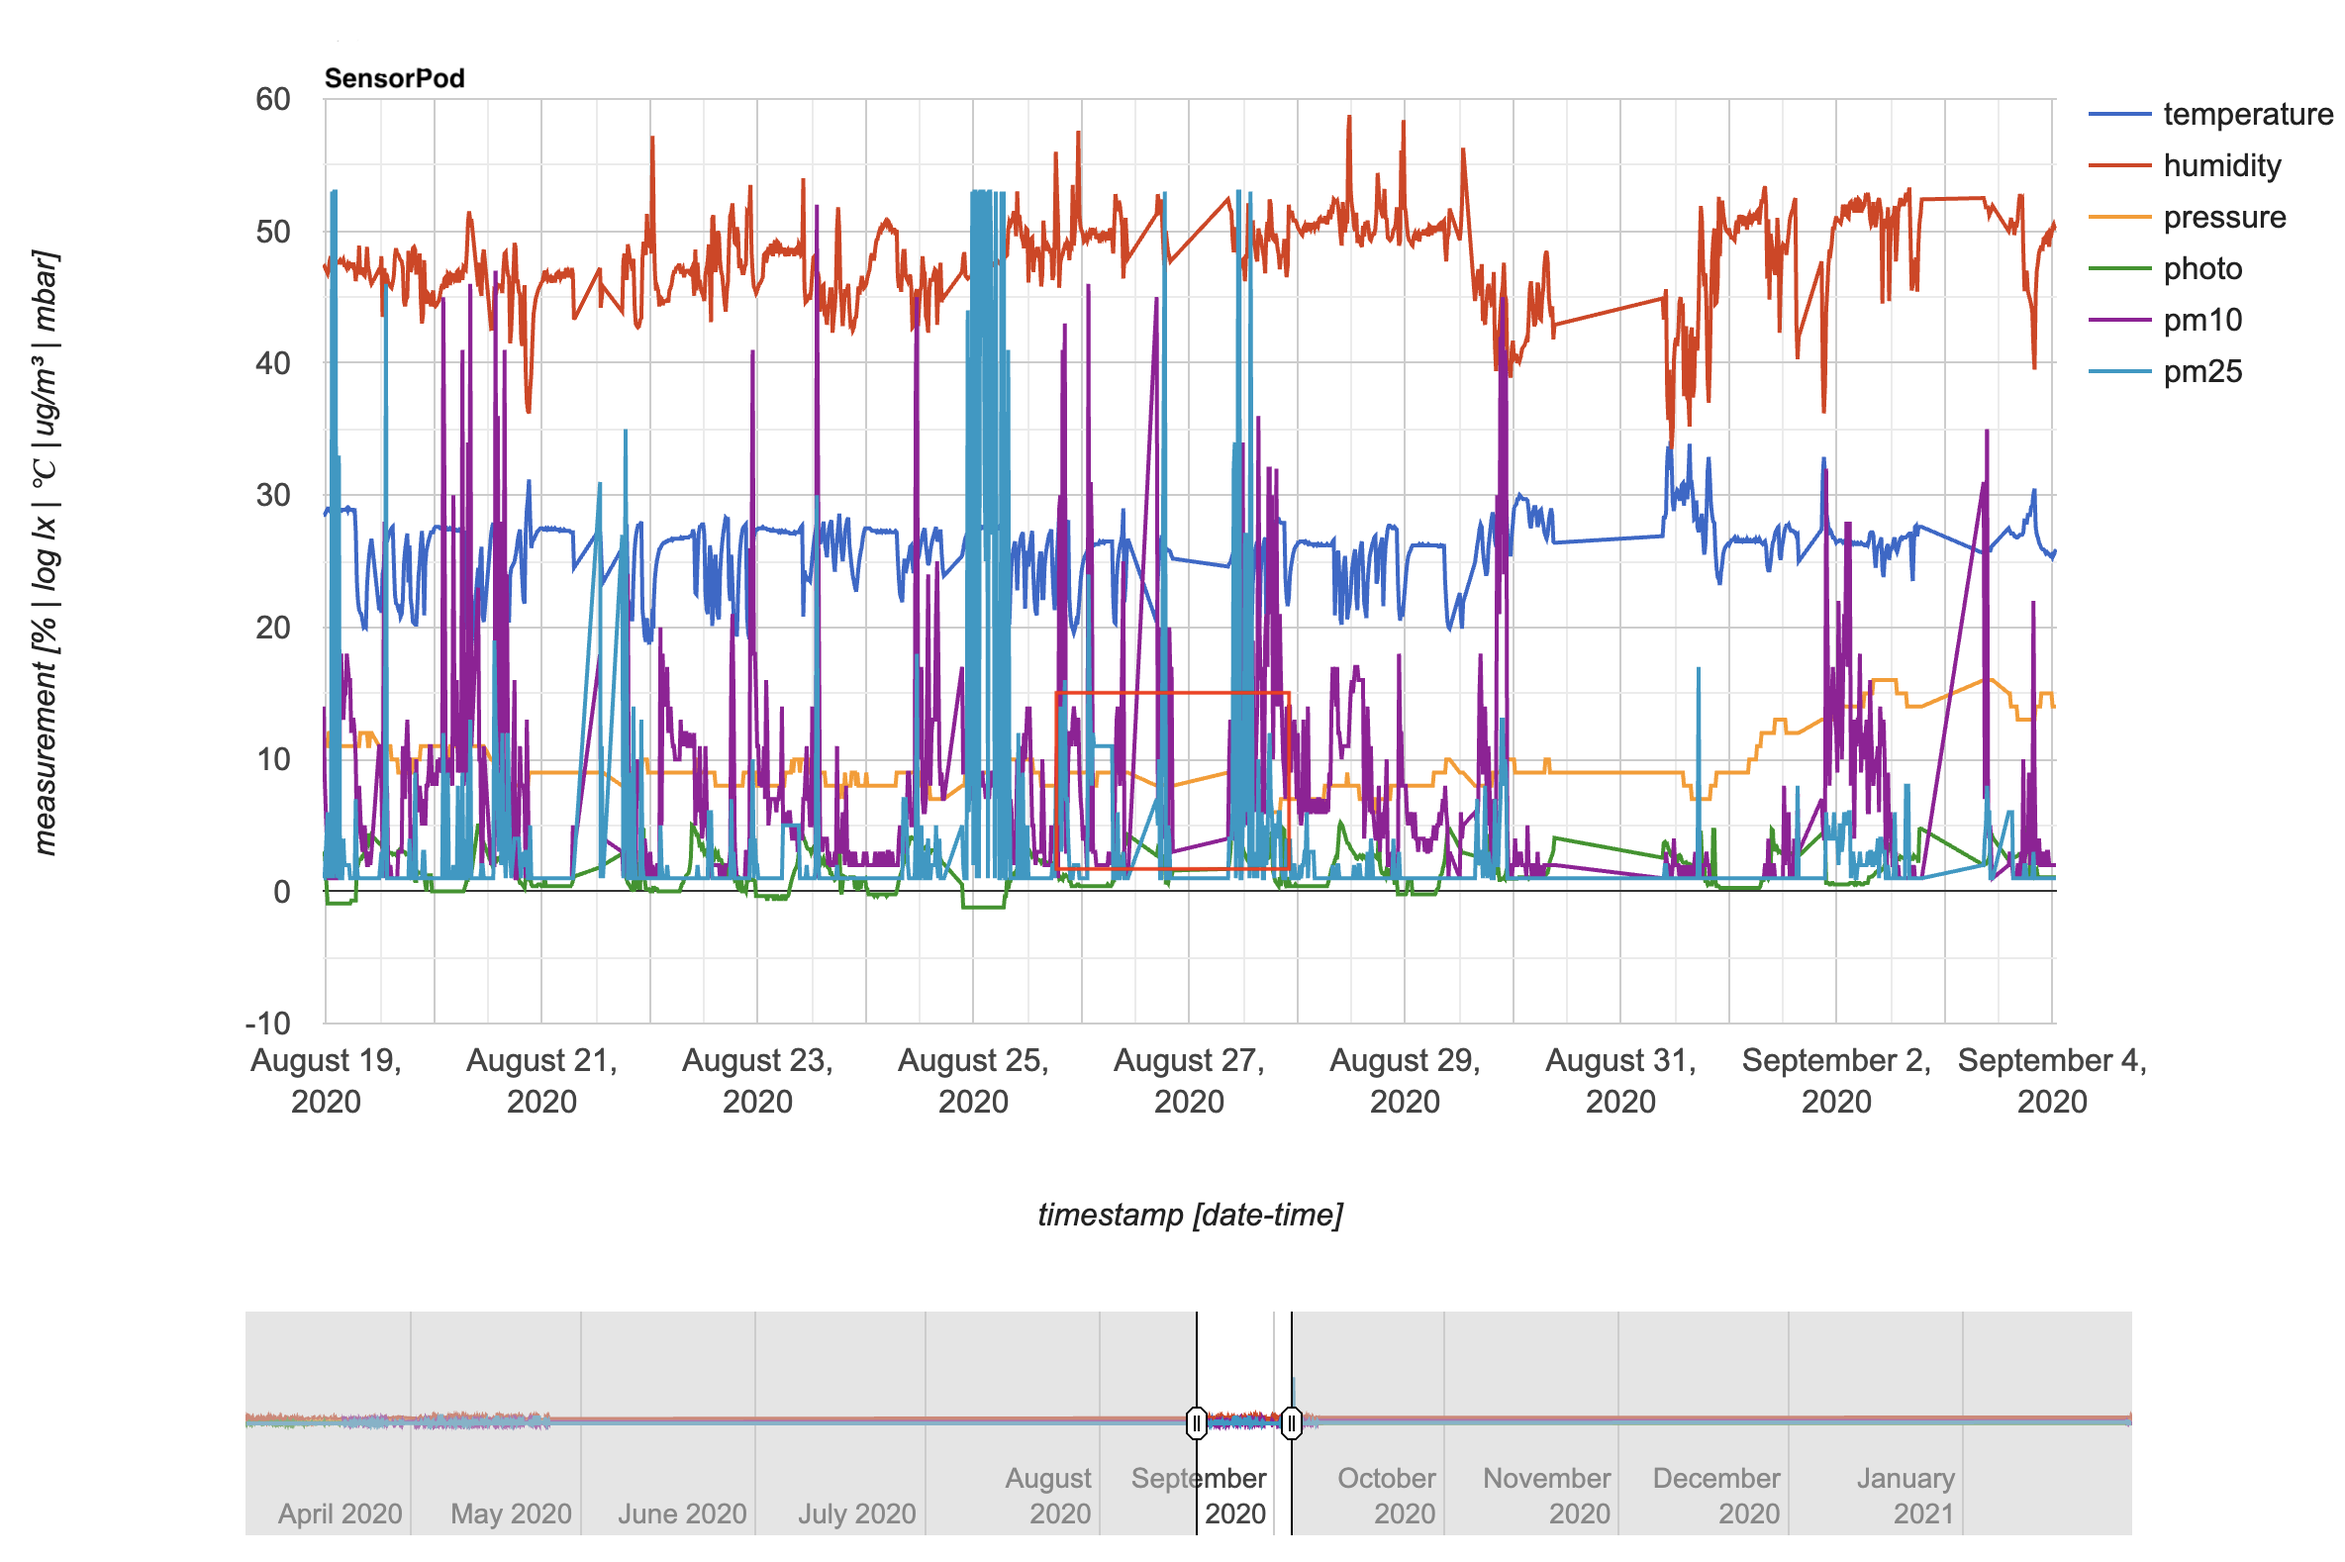
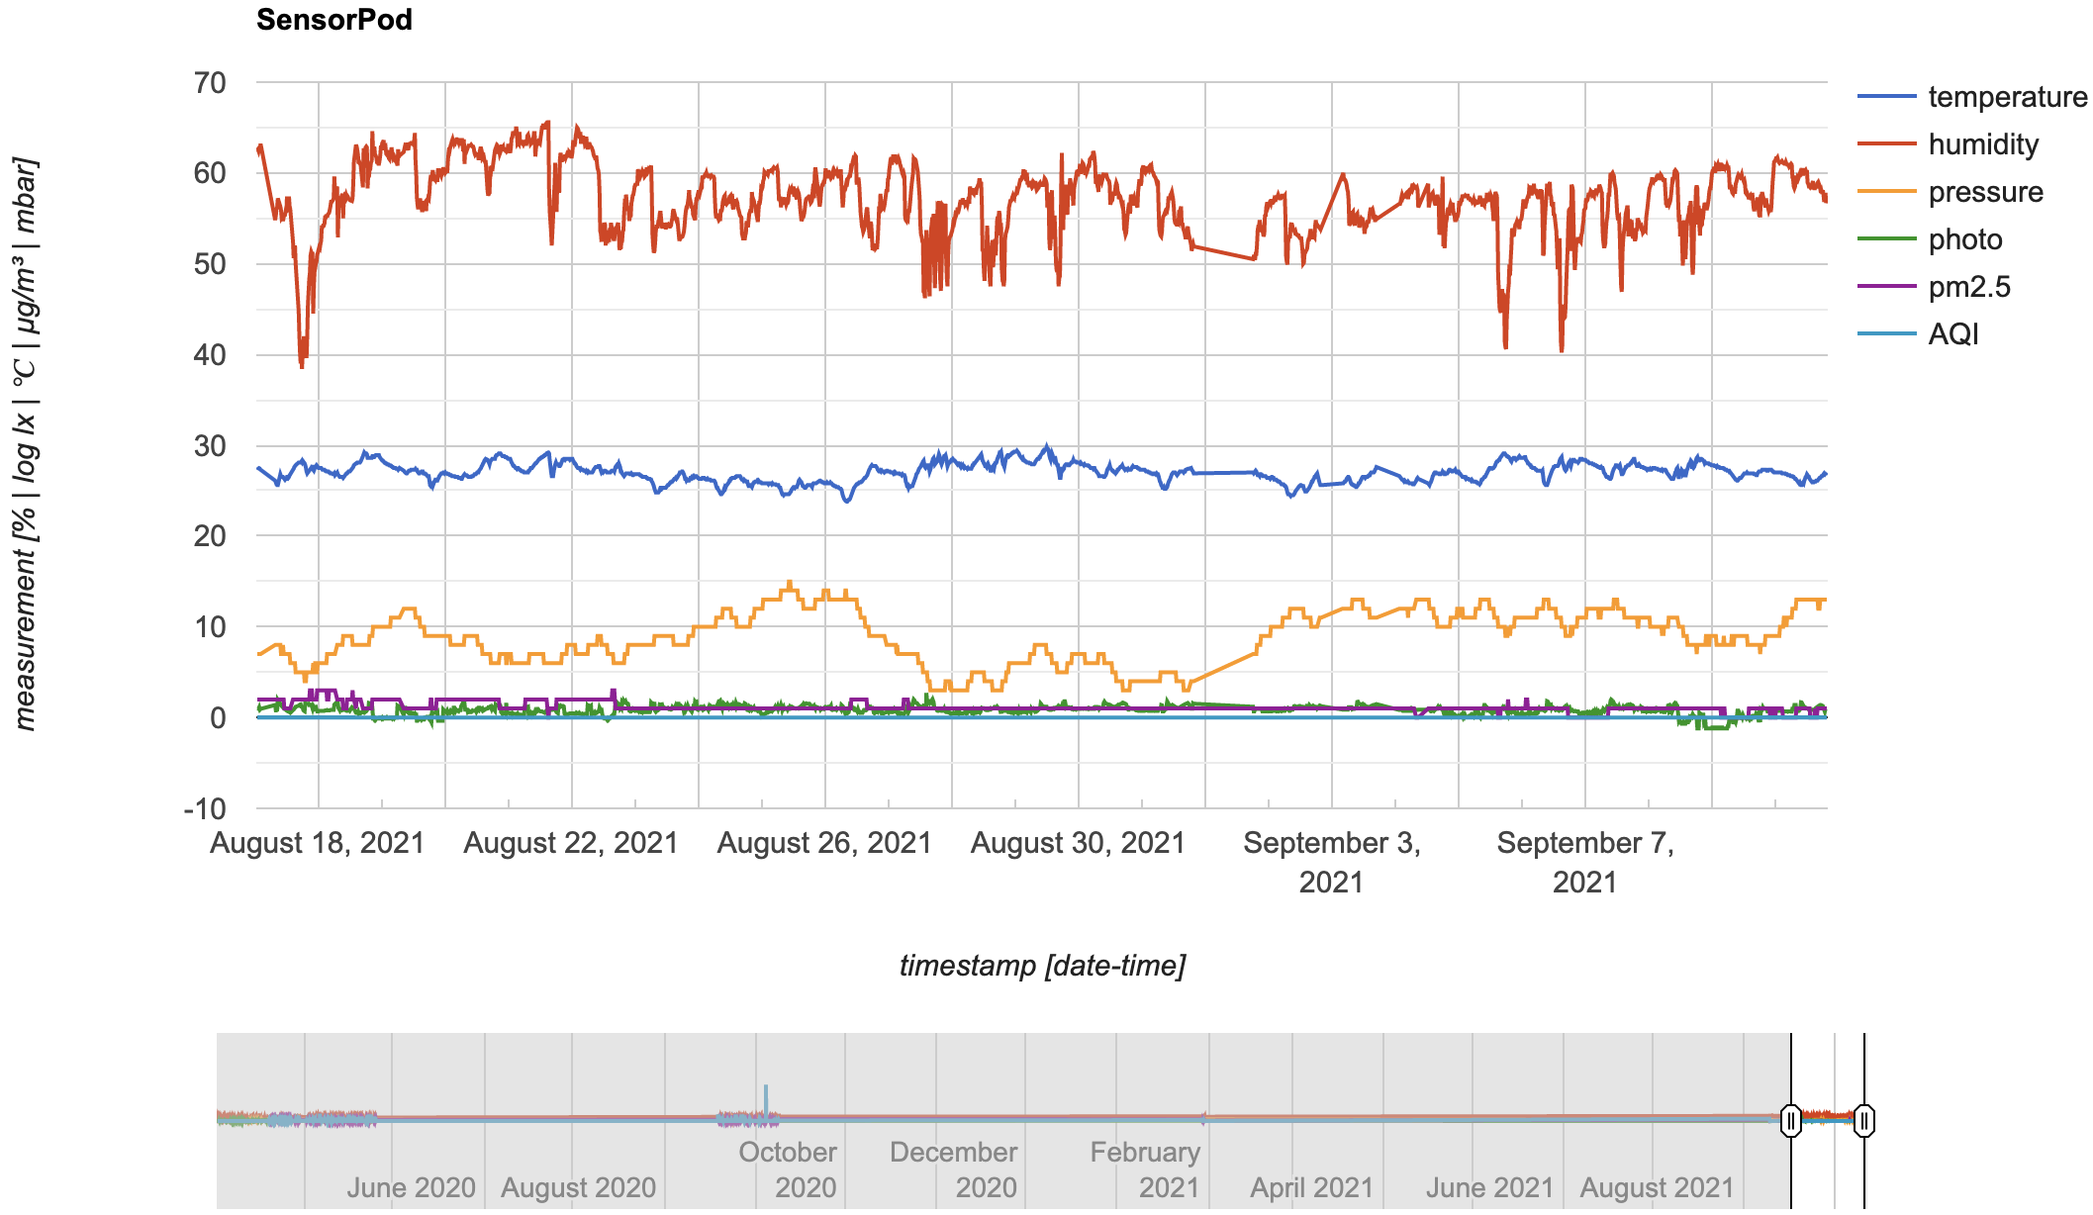
Reworked air quality determination

diff --git a/SensorPod/Uno/src/main.cpp b/SensorPod/Uno/src/main.cpp
@@ -11,14 +11,14 @@
 #include <U8x8lib.h>
 #include <Wire.h>
 
-#define DSM501PM10_PIN 2
-#define DSM501PM25_PIN 3
+#define DSM501PM1_0_PIN 2
+#define DSM501PM2_5_PIN 3
 
-#define DSM501PM10 0
-#define DSM501PM25 1
+#define DSM501PM1_0 0
+#define DSM501PM2_5 1
 #define DSM501NPMS 2
 
-#define DSM501WINDOW 3600000ul
+#define DSM501WINDOW 3600000ul // 1 hour in ms
 
 void post_handler();
 void updateUVI_handler();
@@ -29,22 +29,23 @@ struct DSM501 {
     unsigned long t0; // in ms
     unsigned long dt; // in ms
     float r;          // in %
-    char pm_str[4];
     uint8_t pin;
   } pm[DSM501NPMS];
+  char pm2_5_str[4];
+  char aqi2_5_str[4];
   uint8_t state;
-} dsm501;
+} dsm501 = {0};
 
 #define DSM501_WARMUP 0
 #define DSM501_MEASURE 1
 
 void dsm_start() {
 
-  pinMode(DSM501PM10_PIN, INPUT);
-  pinMode(DSM501PM25_PIN, INPUT);
+  pinMode(DSM501PM1_0_PIN, INPUT);
+  dsm501.pm[DSM501PM1_0].pin = DSM501PM1_0_PIN;
 
-  dsm501.pm[DSM501PM10].pin = DSM501PM10_PIN;
-  dsm501.pm[DSM501PM25].pin = DSM501PM25_PIN;
+  pinMode(DSM501PM2_5_PIN, INPUT);
+  dsm501.pm[DSM501PM2_5].pin = DSM501PM2_5_PIN;
 
   dsm501.state = DSM501_MEASURE;
 
@@ -55,8 +56,9 @@ void dsm_start() {
 void dsm_loop() {
   switch (dsm501.state) {
   case DSM501_MEASURE: {
+    float pm[DSM501NPMS];
     for (uint8_t i = 0; i < DSM501NPMS; i++) {
-      unsigned long pulse = pulseIn(dsm501.pm[i].pin, LOW, 240000ul),
+      unsigned long pulse = pulseInLong(dsm501.pm[i].pin, LOW, 240000ul),
                     ms = millis(),
                     dt = ms - dsm501.pm[i].t0; // in ms
 
@@ -70,16 +72,37 @@ void dsm_loop() {
       if (dsm501.pm[i].dt > DSM501WINDOW)
         dsm501.pm[i].dt = DSM501WINDOW;
 
-      /*float pm = 00.31778908f * pow(dsm501.pm[i].r, 3) -
-                 3.5669456f * pow(dsm501.pm[i].r, 2) +
-                 118.05720f * dsm501.pm[i].r - 50.607655f; // in ug/m3*/
+      // from datasheet, highest trace
+      pm[i] = -75.3446f + 80.3664f * dsm501.pm[i].r -
+              0.380702f * pow(dsm501.pm[i].r, 2) +
+              0.116638f * pow(dsm501.pm[i].r, 3); // in ug/m3
+    }
 
-      float pm = 0.083701976 * pow(dsm501.pm[i].r, 3) +
-                 0.31207281f * pow(dsm501.pm[i].r, 2) +
-                 75.929237f * dsm501.pm[i].r - 68.798744f; // in ug/m3
+    if (pm[DSM501PM2_5] > 0.0f)
+      pm[DSM501PM1_0] -= pm[DSM501PM2_5];
 
-      if (pm > 0.0f)
-        dtostrf(pm, 3, 0, (char *)dsm501.pm[i].pm_str);
+    if (pm[DSM501PM1_0] >= 0.0f) {
+
+      dtostrf(pm[DSM501PM1_0], 3, 0, (char *)dsm501.pm2_5_str);
+
+      float aqi;
+      if (pm[DSM501PM1_0] >= 0.0f && pm[DSM501PM1_0] <= 35.0f) {
+        aqi = 50.0f / 35.0f * pm[DSM501PM1_0];
+      } else if (pm[DSM501PM1_0] > 35.0f && pm[DSM501PM1_0] <= 75.0f) {
+        aqi = 50.0f + (50.0 / 40 * (pm[DSM501PM1_0] - 35));
+      } else if (pm[DSM501PM1_0] > 75.0f && pm[DSM501PM1_0] <= 115.0f) {
+        aqi = 100.0f + (50.0 / 40.0f * (pm[DSM501PM1_0] - 75.0f));
+      } else if (pm[DSM501PM1_0] > 115.0f && pm[DSM501PM1_0] <= 150.0f) {
+        aqi = 150.0f + (50.0 / 35.0f * (pm[DSM501PM1_0] - 115.0f));
+      } else if (pm[DSM501PM1_0] > 150.0f && pm[DSM501PM1_0] <= 250.0f) {
+        aqi = 200.0f + (100.0f / 100.0f * (pm[DSM501PM1_0] - 150.0f));
+      } else if (pm[DSM501PM1_0] > 250.0f && pm[DSM501PM1_0] <= 500.0f) {
+        aqi = 300.0f + (200.0f / 250.0f * (pm[DSM501PM1_0] - 250.0f));
+      } else if (pm[DSM501PM1_0] > 500.0f) {
+        aqi = 500.0f + (500.0f / 500.0f * (pm[DSM501PM1_0] - 500.0));
+      }
+
+      dtostrf(aqi, 3, 0, (char *)dsm501.aqi2_5_str);
     }
   } break;
   case DSM501_WARMUP:
@@ -417,12 +440,10 @@ void screen_draw_sensors() {
   snprintf_P(buf, sizeof(buf), PSTR("pres:  %s bar"), sv.pressure_str);
   u8x8.drawString(0, 5, buf);
 
-  snprintf_P(buf, sizeof(buf), PSTR("pm10: %4s ug/m3"),
-             dsm501.pm[DSM501PM10].pm_str);
+  snprintf_P(buf, sizeof(buf), PSTR("pm25:%3s ug/m3"), dsm501.pm2_5_str);
   u8x8.drawString(0, 6, buf);
 
-  snprintf_P(buf, sizeof(buf), PSTR("pm25: %4s ug/m3"),
-             dsm501.pm[DSM501PM25].pm_str);
+  snprintf_P(buf, sizeof(buf), PSTR("aqi :%3s"), dsm501.aqi2_5_str);
   u8x8.drawString(0, 7, buf);
 }
 
@@ -708,6 +729,8 @@ void updateUVI_handler() {
 
 void post_handler() {
 
+  static const char *null_str = "null";
+
   switch (queue.stage) {
   case QUEUE_EXEC:
     char cmd[192], photo_str[6];
@@ -716,11 +739,15 @@ void post_handler() {
                PSTR("PST\ntwonky.centralpark.lan\n/"
                     "sensors.php\n{\"timestamp\":\"20%02d-%02d-%02dT%02d:%02d:%"
                     "02d\",\"temperature\":%s,\"humidity\":%s,\"pressure\":%s,"
-                    "\"photo\":%s,\"pm10\":%s,\"pm25\":%s}\n"),
+                    "\"photo\":%s,\"pm2_5\":%s, \"aqi2_5\":%s}\n"),
                DateTime.year, DateTime.month, DateTime.day, DateTime.hour,
-               DateTime.minute, DateTime.second, sv.temperature_str,
-               sv.humidity_str, sv.pressure_str, photo_str,
-               dsm501.pm[DSM501PM10].pm_str, dsm501.pm[DSM501PM25].pm_str);
+               DateTime.minute, DateTime.second,
+               sv.temperature_str[0] ? sv.temperature_str : null_str,
+               sv.humidity_str[0] ? sv.humidity_str : null_str,
+               sv.pressure_str[0] ? sv.pressure_str : null_str,
+               photo_str[0] ? photo_str : null_str,
+               dsm501.pm2_5_str[0] ? dsm501.pm2_5_str : null_str,
+               dsm501.aqi2_5_str[0] ? dsm501.aqi2_5_str : null_str);
 
     queue_execute(cmd);
     break;
@@ -732,7 +759,7 @@ void post_handler() {
       code[3] = '\0';
       post_error = atoi(code);
       if (post_error != 200)
-        log(Serial, F("Post error %d"), code);
+        log(Serial, F("Post error %d"), post_error);
       else
         log(Serial, F("Sensors posted"));
       queue_reset();

diff --git a/SensorPod/php/SensorPod.php b/SensorPod/php/SensorPod.php
@@ -26,9 +26,14 @@ if (
   if ($_SERVER['REQUEST_METHOD'] == 'POST') {
     $json = file_get_contents('php://input');
     $d = json_decode($json);
-    $query = "INSERT INTO readings(timestamp, temperature, humidity, pressure, photo, pm10, pm25) VALUES (?, ?, ?, ?, ?, ?, ?)";
+    if (is_null($d)) {
+      echo "Failed to parse JSON";
+      http_response_code(500);
+      exit();
+    }
+    $query = "INSERT INTO readings(timestamp, temperature, humidity, pressure, photo, pm2_5, aqi2_5) VALUES (?, ?, ?, ?, ?, ?, ?)";
     $st = mysqli_prepare($link, $query);
-    mysqli_stmt_bind_param($st, 'sdddddd', $d->timestamp, $d->temperature, $d->humidity, $d->pressure, $d->photo, $d->pm10, $d->pm25);
+    mysqli_stmt_bind_param($st, 'sdddddd', $d->timestamp, $d->temperature, $d->humidity, $d->pressure, $d->photo, $d->pm2_5, $d->aqi2_5);
     if (!mysqli_stmt_execute($st)) http_response_code(400);
     else http_response_code(200);
     mysqli_close($link);
@@ -42,15 +47,15 @@ if (
       (object) array('label' => 'humidity', 'type' => 'number'),
       (object) array('label' => 'pressure', 'type' => 'number'),
       (object) array('label' => 'photo', 'type' => 'number'),
-      (object) array('label' => 'pm10', 'type' => 'number'),
-      (object) array('label' => 'pm25', 'type' => 'number')
+      (object) array('label' => 'pm2.5', 'type' => 'number'),
+      (object) array('label' => 'AQI', 'type' => 'number')
     ),
     'rows' => array()
   );
 
   $where = '';
   if (!empty($_GET['dt'])) $where = " WHERE timestamp > '" . $_GET['dt'] . "'";
-  $query = "SELECT DATE_FORMAT(timestamp, '%Y-%m-%dT%H:%i:%s') AS timestamp, temperature, humidity, pressure, LOG(photo) as photo, pm10, pm25 FROM readings" . $where;
+  $query = "SELECT DATE_FORMAT(timestamp, '%Y-%m-%dT%H:%i:%s') AS timestamp, temperature, humidity, pressure, LOG(photo) as photo, pm2_5, aqi2_5 FROM readings" . $where;
 
   $result = mysqli_query($link, $query);
   while ($row = mysqli_fetch_assoc($result)) {
@@ -62,8 +67,8 @@ if (
       (object) array('v' => floatval($row['humidity'])),
       (object) array('v' => (floatval($row['pressure']) - 1.0) * 1000),
       (object) array('v' => floatval($row['photo'])),
-      (object) array('v' => floatval($row['pm10'])),
-      (object) array('v' => floatval($row['pm25']))
+      (object) array('v' => floatval($row['pm2_5'])),
+      (object) array('v' => floatval($row['aqi2_5']))
     ));
   }
 
@@ -78,7 +83,7 @@ if (
 <html>
 
 <head>
-  <title>Sensors</title>
+  <title>SensorPod</title>
   <script type="text/javascript" src="https://www.gstatic.com/charts/loader.js"></script>
   <script type="text/javascript" src="https://ajax.googleapis.com/ajax/libs/jquery/1.10.2/jquery.min.js"></script>
   <script type="text/javascript">
@@ -92,7 +97,7 @@ if (
     var board = null;
 
     var opt = {
-      title: 'Sensors',
+      title: 'SensorPod',
       curveType: 'none',
       legend: {
         position: 'right'
@@ -101,7 +106,7 @@ if (
         title: 'timestamp [date-time]',
       },
       vAxis: {
-        title: 'measurement [% | log lx | \u2103 | ug/m\u00B3 | mbar]',
+        title: 'measurement [% | log lx | \u2103 | \u03BCg/m\u00B3 | mbar]',
       },
       explorer: {
         actions: ['dragToZoom', 'rightClickToReset'],

diff --git a/SensorPod/README.md b/SensorPod/README.md
@@ -8,7 +8,7 @@
 - Humidity
 - Pressure
 - Brightness
-- Air quality (PM₁₀ and PM₂₅)
+- Air quality (PM<sub>2.5</sub> and AQI)
 
 The projects includes a `PHP` page for `Sensor Pod` to post to and that will graph with [`Google Charts`](https://developers.google.com/chart/) the readings when accessed from a web browser. The latter is demonstrated in the image below.
 
@@ -90,8 +90,8 @@ CREATE TABLE `readings` (
   `temperature` float DEFAULT NULL,
   `humidity` float DEFAULT NULL,
   `photo` float DEFAULT NULL,
-  `pm10` float DEFAULT NULL,
-  `pm25` float DEFAULT NULL,
+  `pm2_5` float DEFAULT NULL,
+  `aqi2_5` float DEFAULT NULL,
   `pressure` float DEFAULT NULL,
   PRIMARY KEY (`timestamp`)
 ) ENGINE=InnoDB DEFAULT CHARSET=utf8mb4 COLLATE=utf8mb4_unicode_ci;
